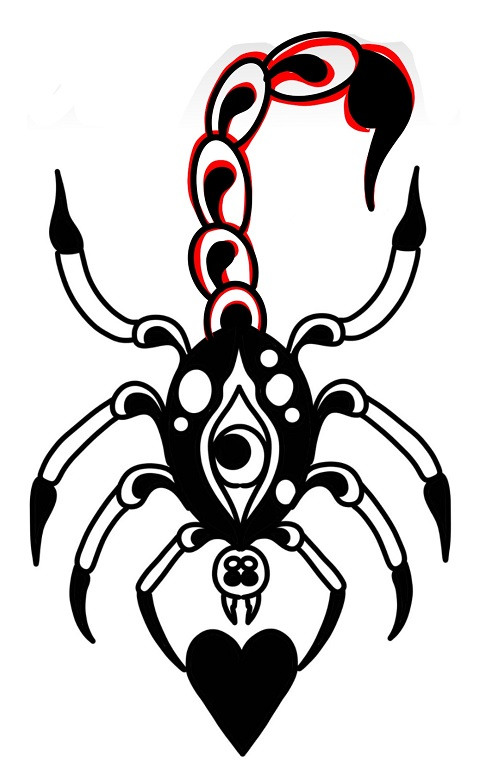
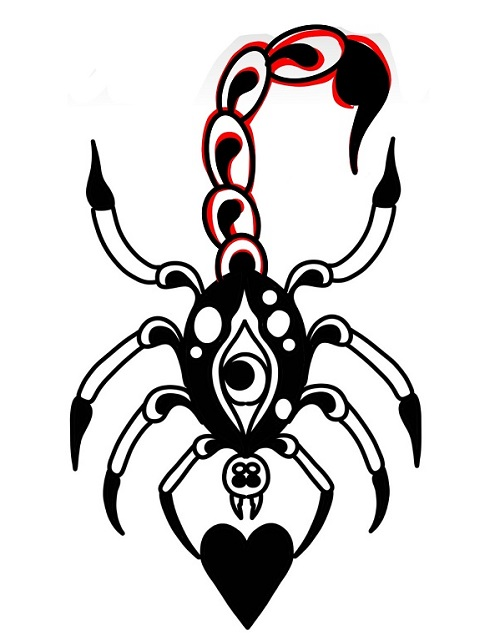
se cambio resolucion tatuajes grandes

Changed region(s): [[0.0601, 0.0312, 0.9018, 0.9984], [0.5411, 0.9048, 0.5711, 0.936], [0.511, 0.936, 0.5411, 0.9672]]

diff --git a/tatu.html b/tatu.html
@@ -340,7 +340,7 @@
         
                     <div class="card">
                         <div class="img-container">
-                          <img id="lake" class="img" src="./img/1ar.jpg" alt="lake" />
+                          <img id="lake" class="img" src="./img/60ar.jpg" alt="lake" />
                         </div>
                     </div>
 
@@ -352,13 +352,13 @@
       
                   <div class="card">
                       <div class="img-container">
-                        <img id="lake" class="img" src="./img/50ar.jpg" alt="lake" />
+                        <img id="lake" class="img" src="./img/54ar.jpg" alt="lake" />
                       </div>
                   </div>
       
                   <div class="card">
                       <div class="img-container">
-                        <img id="lake" class="img" src="./img/60ar.jpg" alt="lake" />
+                        <img id="lake" class="img" src="./img/a61.png" alt="lake" />
                       </div>
                   </div>
         
